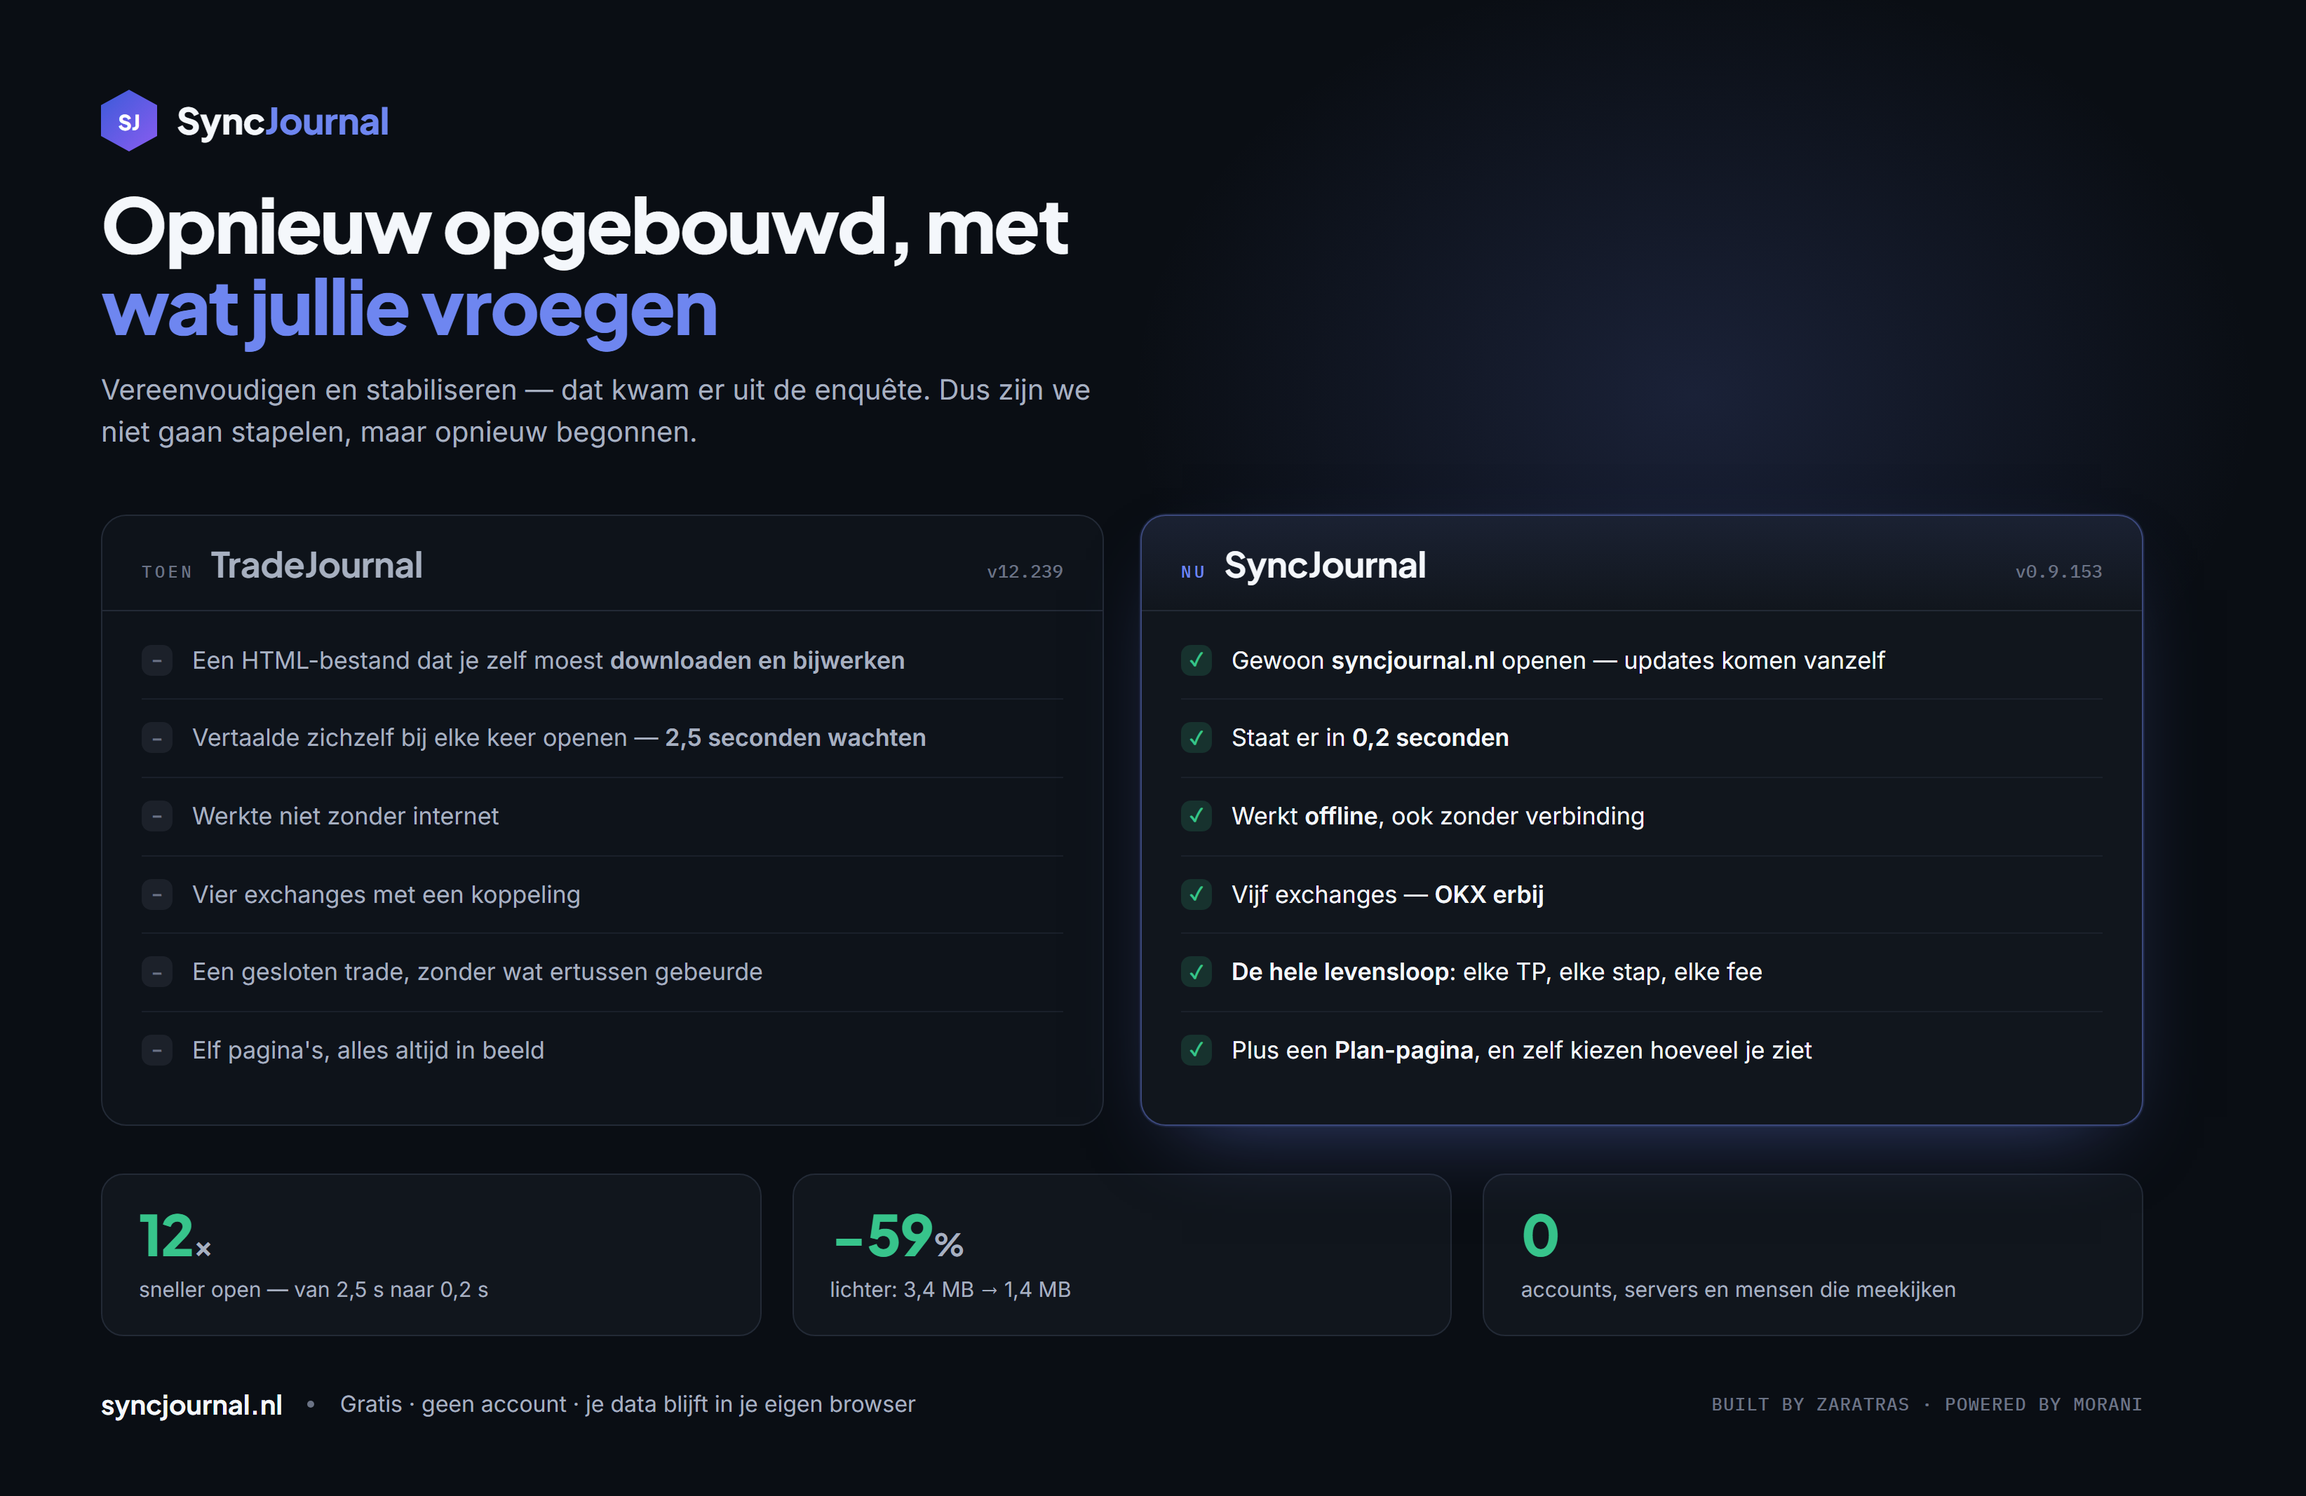
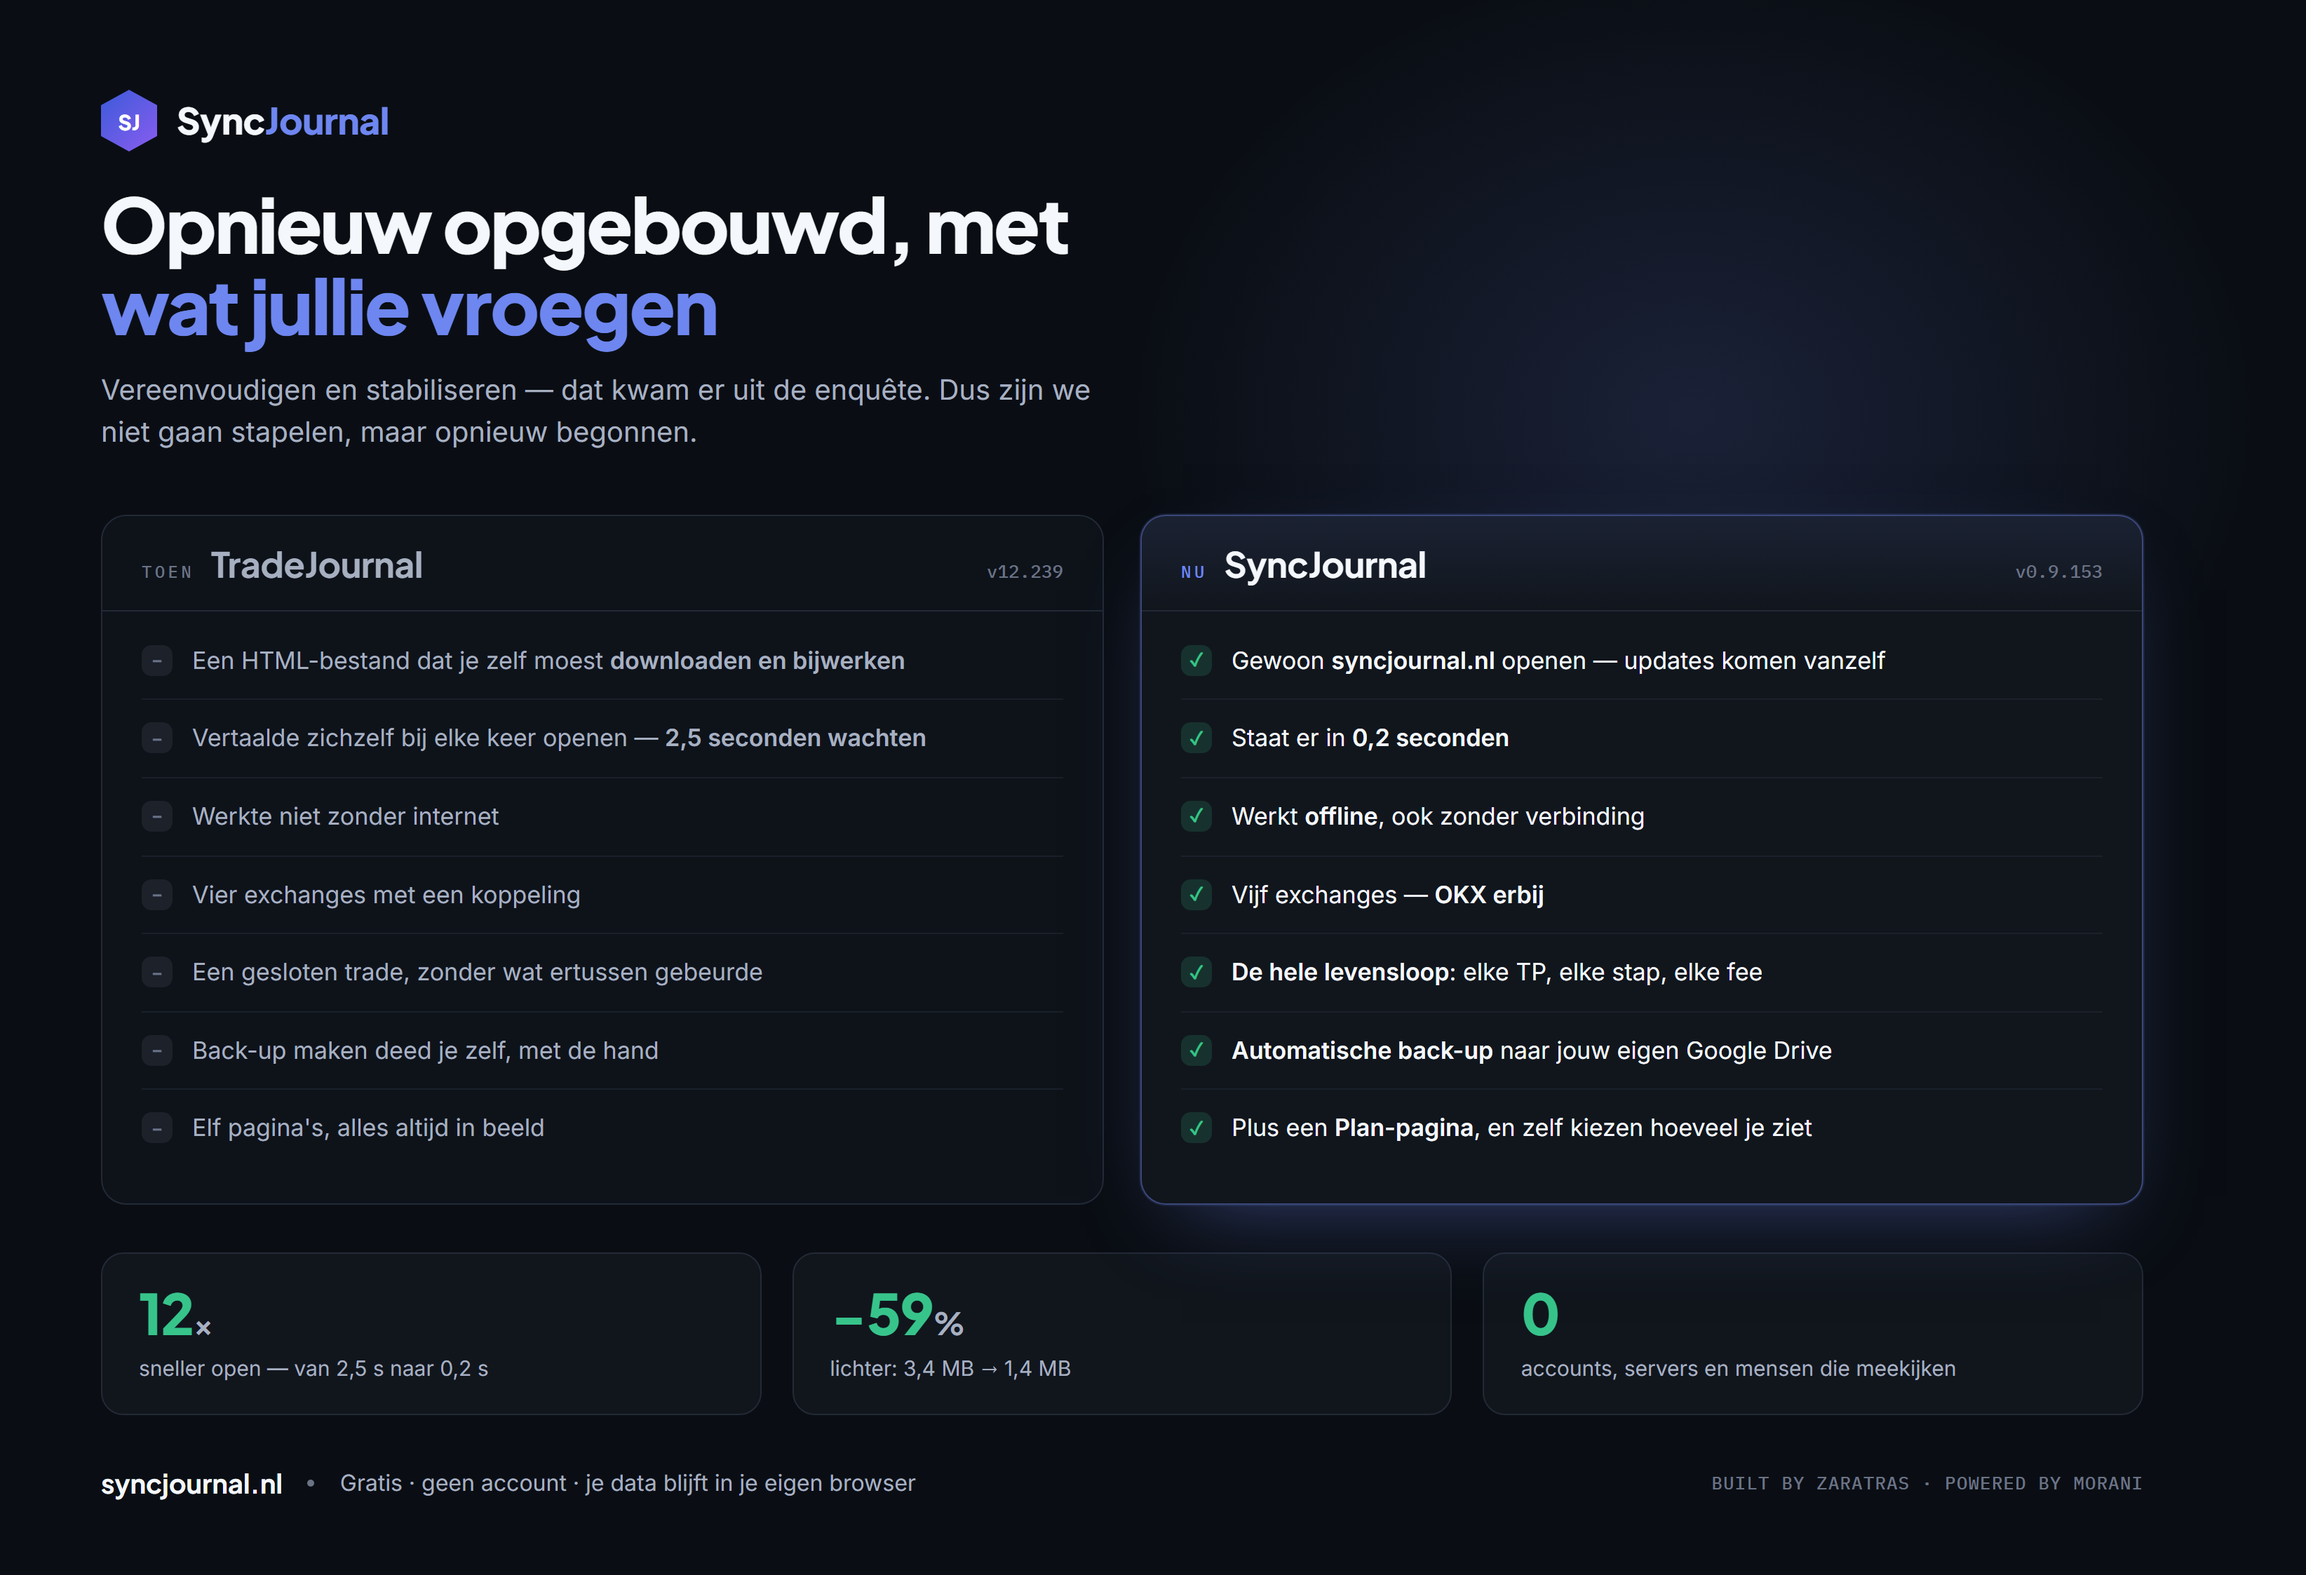
docs: Google Drive in the release message and the graphic
The Drive link is genuinely new -- the old journal mentions Drive once, in prose,
with no integration; SyncJournal has the OAuth flow and ten references. It also
answers the sharpest objection to a browser-only app: your journal is no longer
only your browser, and you can pick up on another computer.

Phrased carefully, because "we use Google Drive" can read as data leaving the
browser. It does not: the app creates a visible SyncJournal folder in the user's
own Drive and writes the same backup file they could export by hand. Added a ready
answer for "gaat mijn data dan naar Google?", since that question will come.

Both columns of the graphic gained a row, so the contrast stays paired: backups
by hand versus automatic.

diff --git a/demos/release-vergelijking.html b/demos/release-vergelijking.html
@@ -101,6 +101,7 @@
         <li><span class="ic">–</span><span>Werkte niet zonder internet</span></li>
         <li><span class="ic">–</span><span>Vier exchanges met een koppeling</span></li>
         <li><span class="ic">–</span><span>Een gesloten trade, zonder wat ertussen gebeurde</span></li>
+        <li><span class="ic">–</span><span>Back-up maken deed je zelf, met de hand</span></li>
         <li><span class="ic">–</span><span>Elf pagina's, alles altijd in beeld</span></li>
       </ul>
     </section>
@@ -117,6 +118,7 @@
         <li><span class="ic">✓</span><span class="toon">Werkt <b>offline</b>, ook zonder verbinding</span></li>
         <li><span class="ic">✓</span><span class="toon">Vijf exchanges — <b>OKX erbij</b></span></li>
         <li><span class="ic">✓</span><span class="toon"><b>De hele levensloop</b>: elke TP, elke stap, elke fee</span></li>
+        <li><span class="ic">✓</span><span class="toon"><b>Automatische back-up</b> naar jouw eigen Google Drive</span></li>
         <li><span class="ic">✓</span><span class="toon">Plus een <b>Plan-pagina</b>, en zelf kiezen hoeveel je ziet</span></li>
       </ul>
     </section>

diff --git a/docs/discord-release-syncjournal.md b/docs/discord-release-syncjournal.md
@@ -18,6 +18,10 @@ en je hoeft nooit meer een bestand te downloaden — updates komen vanzelf. **OK
 je ziet nu **de hele levensloop van een positie** met elke TP, elke stap en elke fee, en er is een
 nieuwe **Plan-pagina**.
 
+Nieuw is ook de **Google Drive-koppeling**: de app maakt een map *SyncJournal* in **jouw** Drive en
+zet daar automatisch je backups neer — wij kunnen daar niet bij. Daarmee is je journal niet langer
+alleen je browser, en kun je op een andere computer verder waar je gebleven was.
+
 Een paar onderdelen zijn nog niet meegekomen — laat vooral weten wat je mist, dan zetten we het op
 de lijst.
 
@@ -47,6 +51,12 @@ Morgenavond loop ik het live met jullie door. 📓
 > kostte 2,5 seconden en een internetverbinding. De nieuwe doet dat niet meer: 0,2 seconden, en
 > hij werkt zonder verbinding. Daardoor ging het bestand ook van 3,4 naar 1,4 MB.
 
+**Als reactie op "gaat mijn data dan naar Google?"**
+> Nee. De app maakt een map *SyncJournal* in jouw eigen Drive en zet daar je backup-bestand neer —
+> hetzelfde bestand dat je ook met de hand kunt exporteren. Wij hebben geen server en kunnen er niet
+> bij. Je trekt de toegang op elk moment in via je Google-accountinstellingen. Bonus: Drive bewaart
+> 30 dagen versiegeschiedenis per bestand, dus je kunt ook terug naar gisteren.
+
 **Als reactie op "wat is er weg?"**
 > Doelen, milestones, de mindset-module met pre-trade-checks en de deelkaarten zijn nog niet
 > meegekomen. Niet omdat ze slecht waren — er moest gekozen worden, en de sync en de analyse
@@ -62,6 +72,7 @@ Morgenavond loop ik het live met jullie door. 📓
 | 3,4 MB → 1,4 MB | Bestandsgrootte `work/tradejournal.html` en `work/syncjournal.html` |
 | Vijf exchanges, OKX erbij | `EXCHANGES` in beide bestanden; OKX komt in de oude nergens voor |
 | Nieuw: Plan-pagina | `NAVBOT` in SyncJournal; staat niet in de oude `TABS` |
+| Nieuw: Google Drive-backup | 10 treffers + OAuth in SyncJournal, 1 losse vermelding zonder koppeling in de oude |
 | Niet meegekomen | Doelen, milestones, mindset, pre-trade, deelkaarten — in de oude app aanwezig, in SyncJournal nul voorkomens |
 
 **Niet claimen**: "alles is meegenomen" (dat is niet zo) en "sneller dan elke andere journal"
